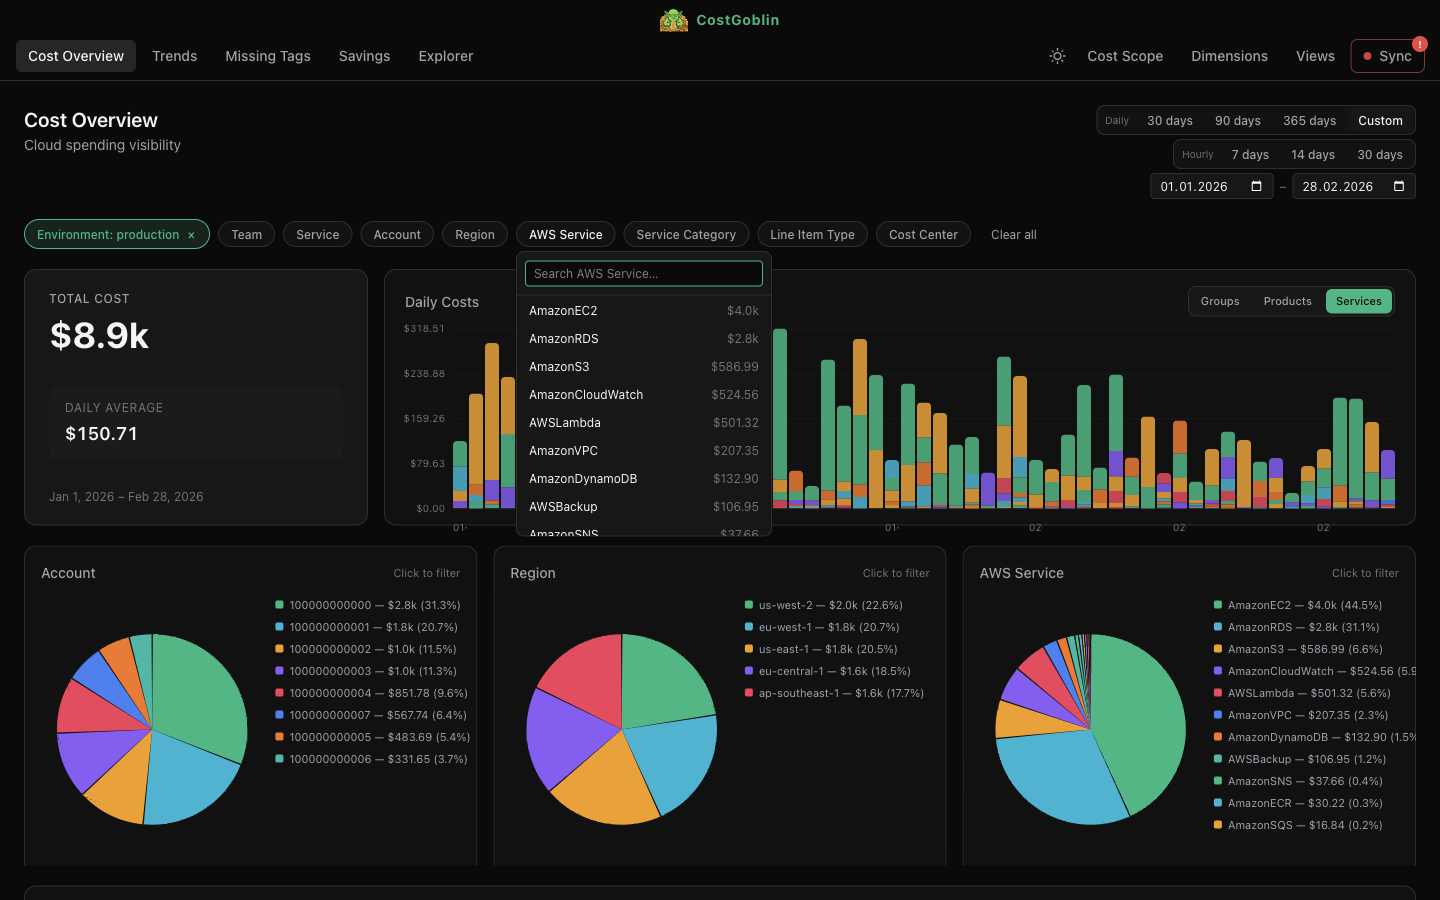
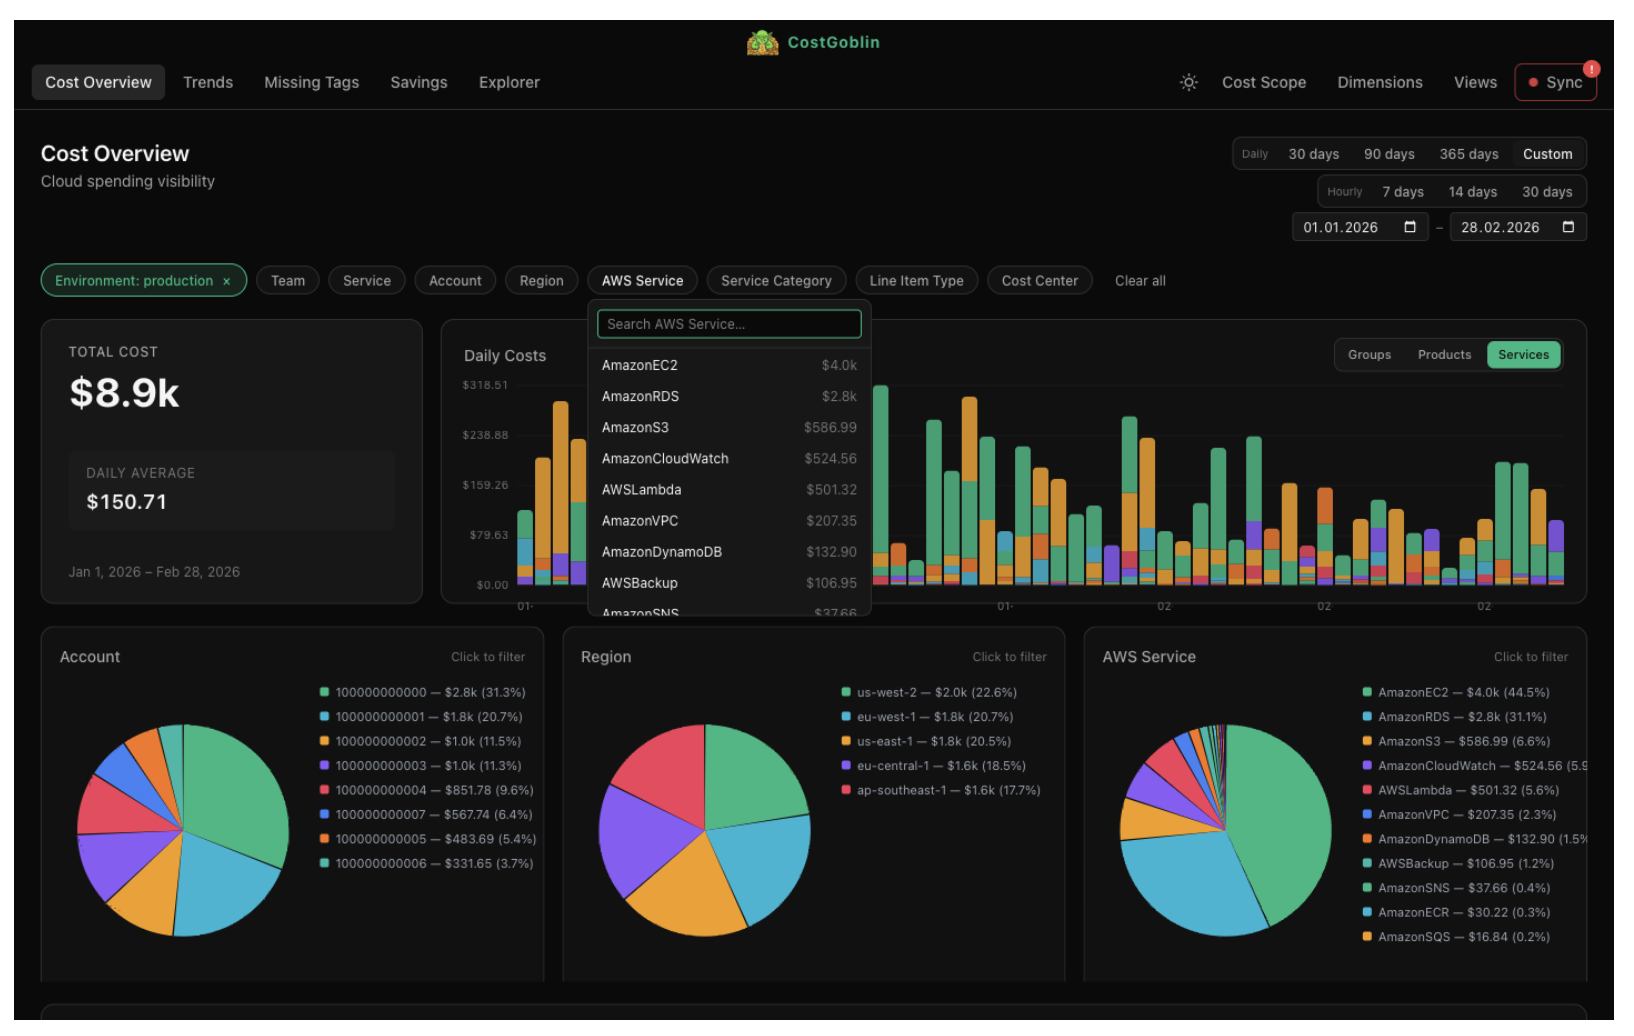
Replace hero screenshot and simplify to single image

diff --git a/README.md b/README.md
@@ -165,35 +165,6 @@ Then use the Data tab to repartition the downloaded files.
 - **CSV export** — export any view for reporting
 - **Works offline** — once synced, no internet needed
 
-<details>
-<summary><strong>Trends</strong> — period-over-period cost comparison</summary>
-<br>
-<img src="docs/screenshots/trends.png" alt="Trends bubble chart" width="800">
-</details>
-
-<details>
-<summary><strong>Findings</strong> — AWS cost optimization recommendations</summary>
-<br>
-<img src="docs/screenshots/cost-optimization.png" alt="Cost optimization findings" width="800">
-</details>
-
-<details>
-<summary><strong>Missing Tags</strong> — find and fix untagged resources</summary>
-<br>
-<img src="docs/screenshots/tags-missing.png" alt="Missing tags analysis" width="800">
-</details>
-
-<details>
-<summary><strong>Dimensions</strong> — map tags to cost allocation dimensions</summary>
-<br>
-<img src="docs/screenshots/dimensions.png" alt="Dimensions configuration" width="800">
-</details>
-
-<details>
-<summary><strong>Views</strong> — compose dashboards from the widget library</summary>
-<br>
-<img src="docs/screenshots/views.png" alt="View builder" width="800">
-</details>
 
 ## Architecture
 
